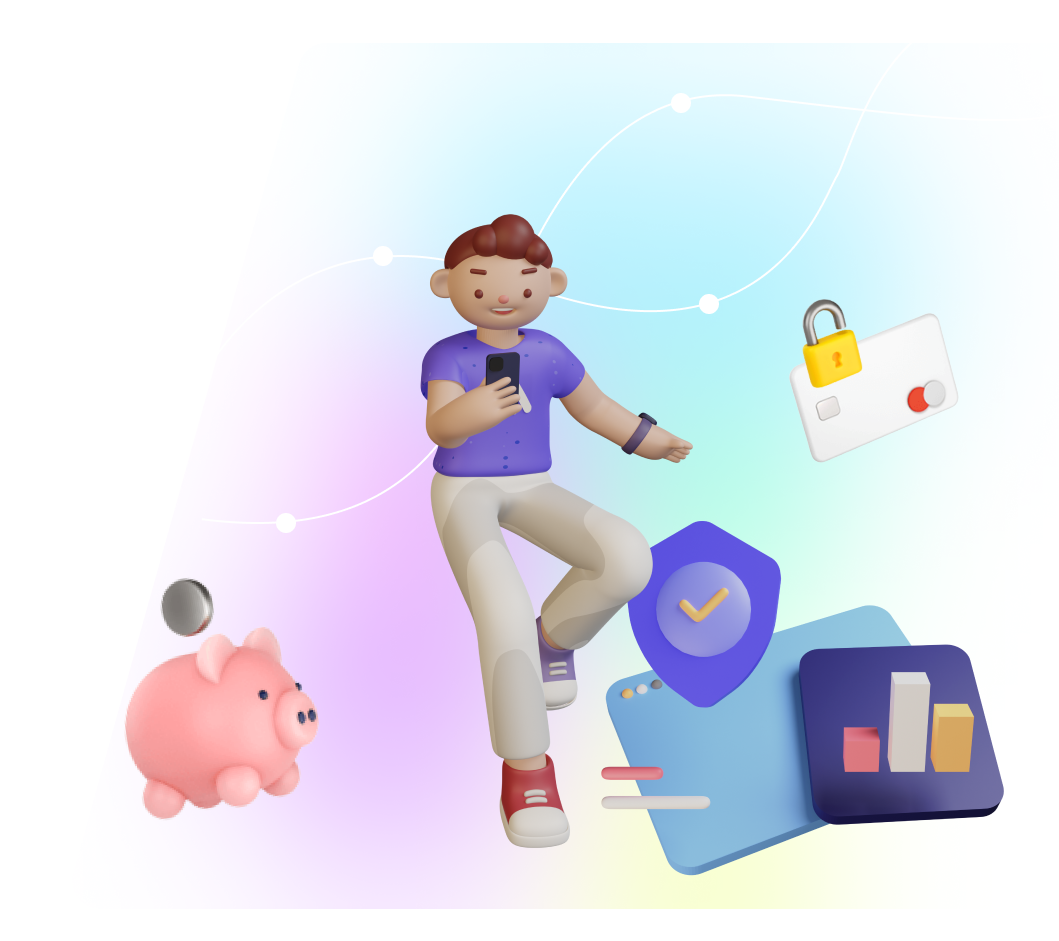
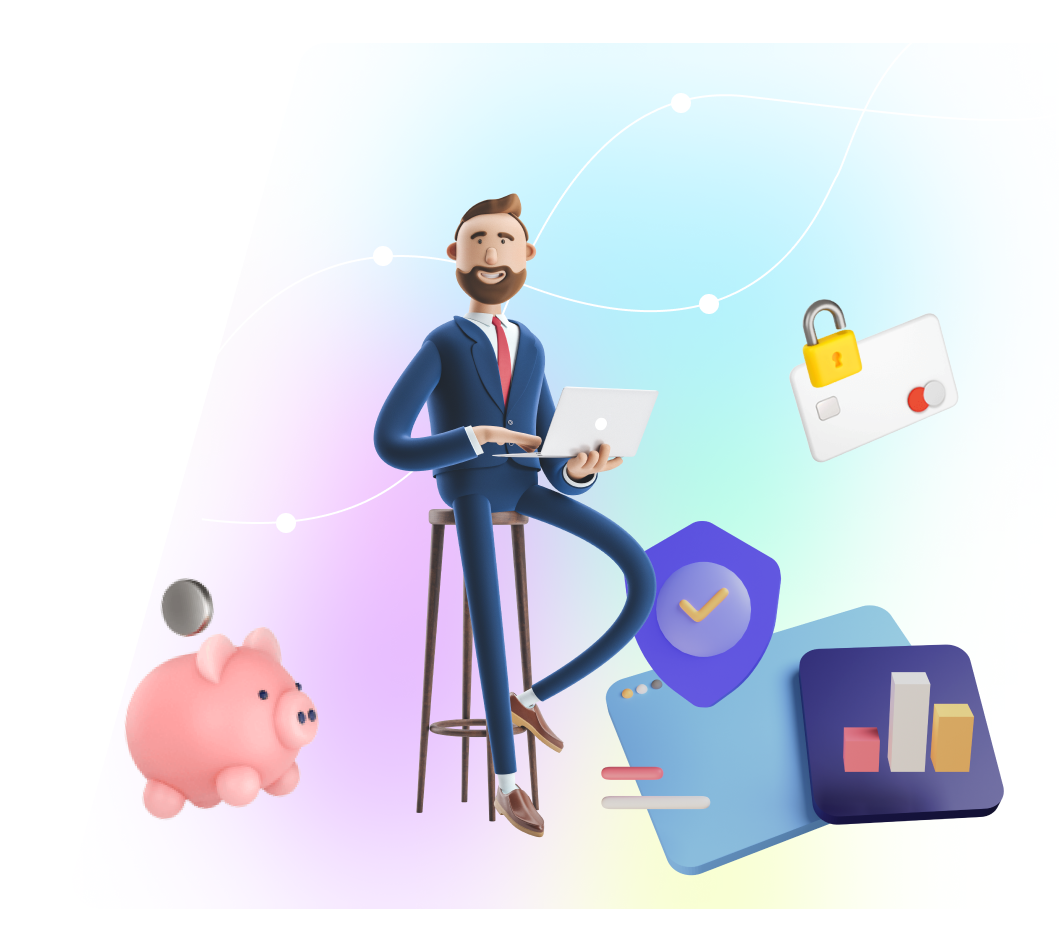
payments page finish

Changed region(s): [[0.3428, 0.1849, 0.6544, 0.9245]]

diff --git a/src/app/modules/payments/payments.component.scss b/src/app/modules/payments/payments.component.scss
@@ -1,0 +1,55 @@
+.payment {
+    padding: 0 10rem;
+    display: flex;
+    align-items: center;
+    height: 90vh;
+
+    &_main {
+
+        &_tittle {
+            width: 70.4rem;
+            font-size: 7.2rem;
+            line-height: 8rem;
+            color: #303030;
+        }
+
+        &_txt {
+            width: 66.2rem;
+            font-size: 2.4rem;
+            margin-top: 3.4rem;
+            color: #6C6C6C;
+        }
+
+        &_btn {
+            margin-top: 9rem;
+            width: 27.5rem;
+            height: 7.3rem;
+            font-size: 2.2rem;
+            font-weight: bold;
+            background: linear-gradient(90deg, rgba(174, 89, 196, 0.5) 0.62%, rgba(109, 236, 205, 0.38) 51.8%, rgba(219, 255, 0, 0.325) 94.73%);
+            border-radius: 2.4rem;
+            border: 5px solid #fff;
+            box-shadow: 0px 20px 35px rgba(63, 26, 75, 0.14);
+            cursor: pointer;
+            top: 0;
+            position: relative;
+            transition: top ease 0.5s;
+        }
+
+        &_btn:hover {
+            box-shadow: 0px 20px 35px rgba(156, 73, 183, 0.379);
+            top: -8px;
+        }
+    }
+    
+    &_img {
+        min-width: 45rem;
+    }
+}
+@media screen and (max-width: 780px) {
+    .payment {
+        flex-wrap: wrap;
+        
+    }
+    
+}

diff --git a/src/app/modules/payments/payments.component.html b/src/app/modules/payments/payments.component.html
@@ -1,1 +1,20 @@
-<p>payments works!</p>
+<div class="payment">
+    <div class="payment_main">
+        <h1 class="payment_main_tittle">
+            Make Your <br>
+            Payment More <br>
+            Secure
+        </h1>
+        <p class="payment_main_txt">
+            Id donec ultrices tincidunt arcu non.
+            Integer enim neque volutpat ac tincidunt vitae semper quis.
+            Arcu dui vivamus arcu felis bibendum ut tristique et.
+            Nullam vehicula ipsum a arcu cursus vitae congue mauris rhoncus.
+            Donec ultrices tincidunt arcu non sodales neque sodales ut etiam.
+        </p>
+        <button class="payment_main_btn">Pay Now</button>
+    </div>
+    <div class="payment_img">
+        <img src="assets/PaymentsBanner.png" alt="Imagem Ilustrativa...">
+    </div>
+</div>

diff --git a/src/app/modules/blog/blog.component.spec.ts b/src/app/modules/blog/blog.component.spec.ts
@@ -1,0 +1,25 @@
+import { ComponentFixture, TestBed } from '@angular/core/testing';
+
+import { BlogComponent } from './blog.component';
+
+describe('BlogComponent', () => {
+  let component: BlogComponent;
+  let fixture: ComponentFixture<BlogComponent>;
+
+  beforeEach(async () => {
+    await TestBed.configureTestingModule({
+      declarations: [ BlogComponent ]
+    })
+    .compileComponents();
+  });
+
+  beforeEach(() => {
+    fixture = TestBed.createComponent(BlogComponent);
+    component = fixture.componentInstance;
+    fixture.detectChanges();
+  });
+
+  it('should create', () => {
+    expect(component).toBeTruthy();
+  });
+});

diff --git a/src/app/modules/help/help.component.spec.ts b/src/app/modules/help/help.component.spec.ts
@@ -1,0 +1,25 @@
+import { ComponentFixture, TestBed } from '@angular/core/testing';
+
+import { HelpComponent } from './help.component';
+
+describe('HelpComponent', () => {
+  let component: HelpComponent;
+  let fixture: ComponentFixture<HelpComponent>;
+
+  beforeEach(async () => {
+    await TestBed.configureTestingModule({
+      declarations: [ HelpComponent ]
+    })
+    .compileComponents();
+  });
+
+  beforeEach(() => {
+    fixture = TestBed.createComponent(HelpComponent);
+    component = fixture.componentInstance;
+    fixture.detectChanges();
+  });
+
+  it('should create', () => {
+    expect(component).toBeTruthy();
+  });
+});

diff --git a/src/app/components/header/header.component.html b/src/app/components/header/header.component.html
@@ -4,16 +4,15 @@
     </div>
 
     <ul class="header_menu">
-        <a href="">
-            <li class="header_menu_item">How it works</li>
-        </a>
-        <a href="">
+        <a routerLink="/home">
+            <li class="header_menu_item">How it works</li></a>
+        <a routerLink="/payments">
             <li class="header_menu_item">Payment</li>
         </a>
-        <a href="">
+        <a routerLink="/help">
             <li class="header_menu_item">Help</li>
         </a>
-        <a href="">
+        <a routerLink="/blog">
             <li class="header_menu_item">Blog</li>
         </a>
     </ul>

diff --git a/src/app/app-routing.module.ts b/src/app/app-routing.module.ts
@@ -14,7 +14,16 @@ const routes: Routes = [
     {
         path: 'payments',
         loadChildren: () => import('./modules/payments/payments.module').then(m => m.PaymentsModule)
+    },
+    {
+        path: 'help',
+        loadChildren: () => import('./modules/help/help.module').then(m => m.HelpModule)
+    },
+    {
+        path: 'blog',
+        loadChildren: () => import('./modules/blog/blog.module').then(m => m.BlogModule)
     }
+    
 ];
 
 @NgModule({

diff --git a/src/app/modules/home/home.component.html b/src/app/modules/home/home.component.html
@@ -1,9 +1,10 @@
 <div class="home">
     <div class="home_main">
         <h1 class="home_main_tittle">
-            Make Your <br>
-            Payment More <br>
-            Secure
+            Walcome <br>
+            to home <br>
+            page, discover our <br>
+            services!
         </h1>
         <p class="home_main_txt">
             Id donec ultrices tincidunt arcu non.

diff --git a/src/app/modules/blog/blog.module.ts b/src/app/modules/blog/blog.module.ts
@@ -1,0 +1,17 @@
+import { NgModule } from '@angular/core';
+import { CommonModule } from '@angular/common';
+
+import { BlogRoutingModule } from './blog-routing.module';
+import { BlogComponent } from './blog.component';
+
+
+@NgModule({
+  declarations: [
+    BlogComponent
+  ],
+  imports: [
+    CommonModule,
+    BlogRoutingModule
+  ]
+})
+export class BlogModule { }

diff --git a/src/app/modules/help/help.module.ts b/src/app/modules/help/help.module.ts
@@ -1,0 +1,17 @@
+import { NgModule } from '@angular/core';
+import { CommonModule } from '@angular/common';
+
+import { HelpRoutingModule } from './help-routing.module';
+import { HelpComponent } from './help.component';
+
+
+@NgModule({
+  declarations: [
+    HelpComponent
+  ],
+  imports: [
+    CommonModule,
+    HelpRoutingModule
+  ]
+})
+export class HelpModule { }

diff --git a/src/app/modules/blog/blog-routing.module.ts b/src/app/modules/blog/blog-routing.module.ts
@@ -1,0 +1,14 @@
+import { NgModule } from '@angular/core';
+import { RouterModule, Routes } from '@angular/router';
+import { BlogComponent } from './blog.component';
+
+const routes: Routes = [{
+  path: '',
+  component: BlogComponent
+}];
+
+@NgModule({
+  imports: [RouterModule.forChild(routes)],
+  exports: [RouterModule]
+})
+export class BlogRoutingModule { }

diff --git a/src/app/modules/help/help-routing.module.ts b/src/app/modules/help/help-routing.module.ts
@@ -1,0 +1,14 @@
+import { NgModule } from '@angular/core';
+import { RouterModule, Routes } from '@angular/router';
+import { HelpComponent } from './help.component';
+
+const routes: Routes = [{
+  path: '',
+  component: HelpComponent
+}];
+
+@NgModule({
+  imports: [RouterModule.forChild(routes)],
+  exports: [RouterModule]
+})
+export class HelpRoutingModule { }

diff --git a/src/app/modules/blog/blog.component.ts b/src/app/modules/blog/blog.component.ts
@@ -1,0 +1,15 @@
+import { Component, OnInit } from '@angular/core';
+
+@Component({
+  selector: 'app-blog',
+  templateUrl: './blog.component.html',
+  styleUrls: ['./blog.component.scss']
+})
+export class BlogComponent implements OnInit {
+
+  constructor() { }
+
+  ngOnInit(): void {
+  }
+
+}
